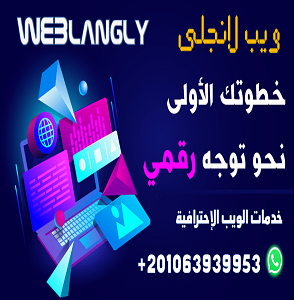
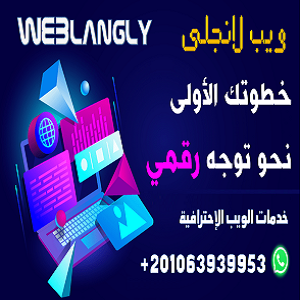
edit

diff --git a/index.html b/index.html
@@ -17,7 +17,7 @@
   Replace the variables in the brackets with your own values and use this URL in the image tag below this comment. Ensure values are URL encoded.
   For more information, read: https://www.opengraph.xyz/blog/how-to-implement-dynamic-open-graph-images
 -->
-<meta property="og:image" itemprop="image" content="https://weblangly.netlify.app/og300.png">
+<meta property="og:image" itemprop="image" content="https://weblangly.netlify.app/og600.png">
 
 <!-- Twitter Meta Tags -->
 <meta name="twitter:card" content="summary_large_image">
